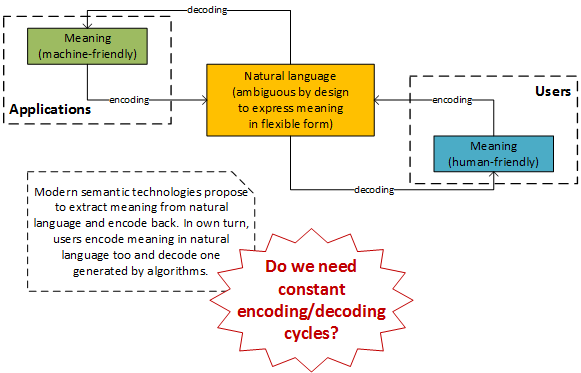
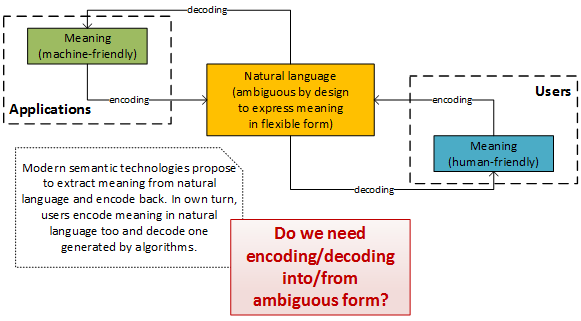
More picturesque explanations added

diff --git a/doc/can-semantics-change-the-world.md b/doc/can-semantics-change-the-world.md
@@ -39,6 +39,8 @@ Undefined relation can express relation of any type (is/has/etc). Modern search 
 
 Will these relations be enough? To disambiguate meaning and comparing with plain text, yes. For example, when "New York buildings" is represented as just three words, its meaning is ambiguous. But we can separate identifiers and relations as "New York | has | buildings" ("buildings of New York") or "New | of | York | has | buildings" ("new buildings of York", where "new" is a property/quality/adjective of "York"). Then even if "York" can be ambiguous too but the standalone identifier is much less vague than the entire phrase. Take another example: "beautiful plane flies quickly with two hundred passengers through the sky from Vienna to Paris". (1) "plane" has "beautiful" and "two hundreds passengers" properties, (2) "plane flies" or "flight" combination has "quickly", "through the sky", "from Vienna", "to Paris" parameters/properties, (3) additionally we can specify "flight" has "Vienna" as a value of departure property and "Paris" as one of an arrival one. Is it enough? For the start, yes. For user-friendly semantics, yes. What we need now is to introduce semantics on wider scale and make it available for users.
 
+![Meaningful](meaning_disambiguated_encoding_decoding.png "Disambiguated meaning encoding/decoding")
+
 Though machine-friendly and human-friendly semantics are rather conditional names for different approaches. Machine-friendly semantics is narrowly focused and highly optimized in specific domain area but humans are so too. The most of humans are specialized in specific activities whereas interdisciplinary approach is somewhat rare skill. Human-friendly semantics is flexible and open but machines as a complex of different applications or even a network of different services can be flexible and open too assuming data can be shared between applications/services. The problem is not one kind of semantics is worse, the problem is both approaches should be used.
 
 As for now, human-friendly semantics is present only in the ambiguous form of raw natural language text, where it is hidden for algorithms though understood by humans. How does computer industry propose to solve this? Semantic Web and similar approaches state semantics is a task for intelligent agents. Virtual assistants and similar approaches state they retrieve semantics from natural language input and convert into output. Any current approach rules out humans from the equation. We are in a vicious circle: we use machine-friendly semantics, because human-friendly semantics is not considered, and it is not considered, because we can use only machine-friendly one. How we can break it?
@@ -65,11 +67,17 @@ Any kind of user interface (GUI, command-line, web, etc) is still not ready for 
 
 Why do we need user interface at all? UI provides human-friendly representation (text, images, audio, video) of computer data for users. But even such representation implies humans have to extract meaning from it. Of course, it can be easy but it can be ambiguous, moreover, it can be quite complicated. Another function of user interface is providing ways to reach a target information or controls. And we still use machine-oriented way to do this, we still think in terms of files, applications, windows, widgets, etc, etc. On one hand, that's reasonable as when we work with some tool we use its traits and specifics. On another, that is unnecessary details, finally, when we use any tool we are driven by our intentions and when a tool is mastered we work with it intuitively without conscious consideration of its principles of work. It seems just a question of habit and experience. But what's really wrong here: computer tools make us to think and operate in the way, which is not quite efficient as for semantics. And, in part, it is the result of these tools use semantics, which is, in part, machine-friendly, sometimes implicit, sometimes duplicated, sometimes misused, and sometimes just not used.
 
+![Meaningful](meaning_problems_with_files.png "Typical problems with files")
+
 For example, file and GUI paths (which consist of controls, clicks, key presses, etc) implies unique classification of things. That is, each file has a unique path of classification, each GUI element has a unique path of clicks-opens, which is a sort of classification too (for example, "click Account -> press Operation -> click Deposit"). Yes, there are symbolic links and often GUI controls can be reached in several ways but in any case we need to know these ways. Though classification usually implies "is" relation, file and GUI paths may use "has" and other relations too (for example, "SolarSystem/planets/Jupiter/chemistry/reports") and we have no means to specify relation types. In the case of file paths, we have another shortcoming: if we copy a file from one computer to another, usually we are to re-classify it when saving. One more flaw: identification is often duplicated in a document content and file name, which, in own turn, may be not meaningful (if a user deformed or abbreviated it by own rules). All this leads to troubles when a user searches/navigates for something because (a) numerous long paths are hard to remember, (b) classification information (which is defined by file or GUI path) is not used for searching, (c) classification may be not meaningful enough, (d) we cannot extract information from GUI with regular text search.
+
+![Meaningful](meaning_problems_with_gui.png "Typical problems with GUI")
 
 What will change, if human-friendly semantics be used in explicit and appropriate form?  Instead of long file paths, we can use human-friendly identification, which enables straightforward access to information. For example, instead of "Galaxy/SolarSystem/planets/Jupiter/chemistry/reports" path we can use more concise "report {of} chemistry {of} Jupiter" identifier as the rest of information is implied behind "Jupiter" identifier and is about what it is similar to.
 
 Will it be usable and useful? Starting with the way of disambiguating "Jupiter {is} planet" from "Jupiter {is} god": it makes sense to specify this by content authors rather than rely on someone or something, which may guess what these authors really meant but may not. Further, you can notice "has/of" relations are very similar to directory levels but semantic identifiers are integral whereas file operations can break semantic links (you can do this by moving a file from "Jupiter/chemistry/reports" to "temp" directory). What is benefit of defining "Galaxy {has} Solar System" and "Solar System {has} Jupiter" rather as "rules" comparing with when they are defined as directories/menus/windows? As "rules" they can be used in inference, for example, if you are looking for "chemistry {has} reports {of} Solar System {has} planets" then "report {of} chemistry {of} Jupiter" will match because "Jupiter {is} planet" and "Solar System {has} Jupiter". Why "chemistry {of} Jupiter" is not "rule" but explicitly present in the identifier? Because "Solar System {has} Jupiter" describes a constant fact whereas a report is rather an ad-hoc combination of meanings. Is it correct to describe "Jupiter {has} chemistry" linked with "has" or it is rather "Jupiter chemistry", that is, an intersection of meanings? In fact, when we say "chemistry" here, we could imply both chemistry as a science (which may only semantically intersect with Jupiter) and a chemical composition (which constitutes Jupiter itself). What we do not consider for sure is a union of "Jupiter" and "chemistry", which could be interpreted as such by search engines in not so good old days. This lead to war of keywords in a pursuit to cover all possible areas of knowledge. But, in fact, it is quite rare when we describe anything by uniting meaning of words. By default, we interpret anything as an intersection, which results in narrower meaning comparing with ones of separate constituents.
+
+![Meaningful](meaning_file_gui_handling.png "Meaning handling of files and GUI")
 
 Will it be easily reachable/navigable? Yes, as meaning has scope, which is quite similar to directory but is dynamic and can be inferred. For example, scope of "Jupiter" and "Jupiter chemistry" will include "report {of} chemistry {of} Jupiter" directly but "report {of} big planet {of} Solar System" may include it in the result of inference. Of course, not everything can be so easily inferred, for example, "Europa chemistry report". It is not clear if it is about "Europa {is} moon {of} Jupiter" or about "Europe {is} continent {of} Earth", if we spelled correctly then the former, if not then could be the latter. And what none search engine could not distinguish: if "chemistry" is a composition, a science, or an industry. As we see, navigation can be similar to one with directories but in more meaningful way.
 
